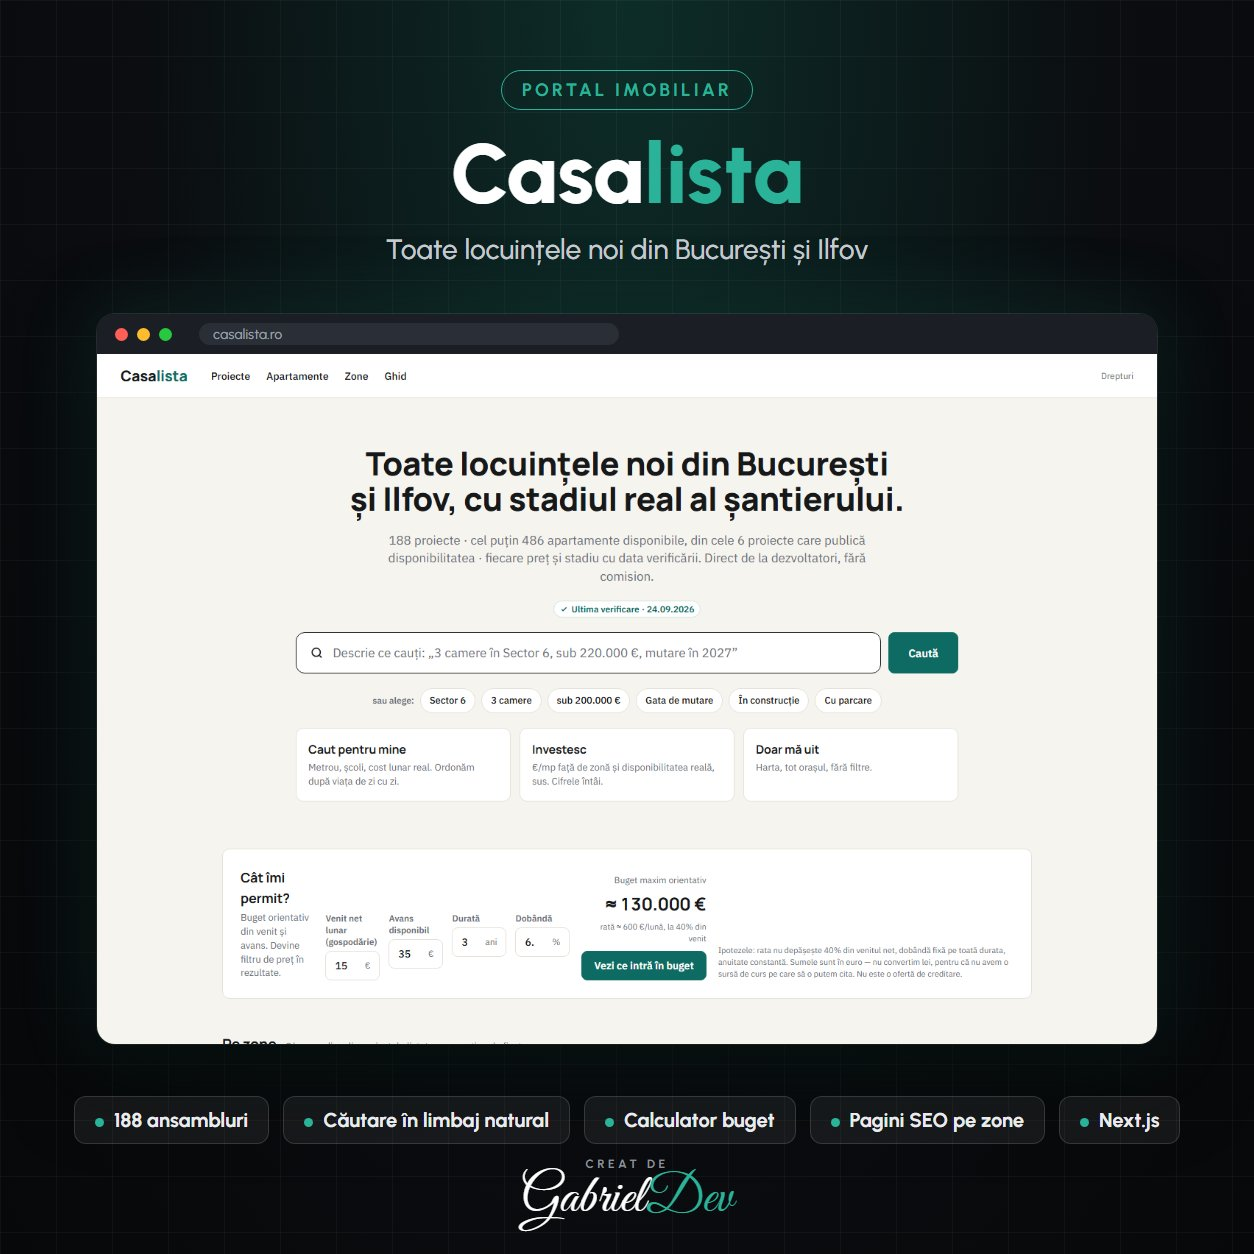
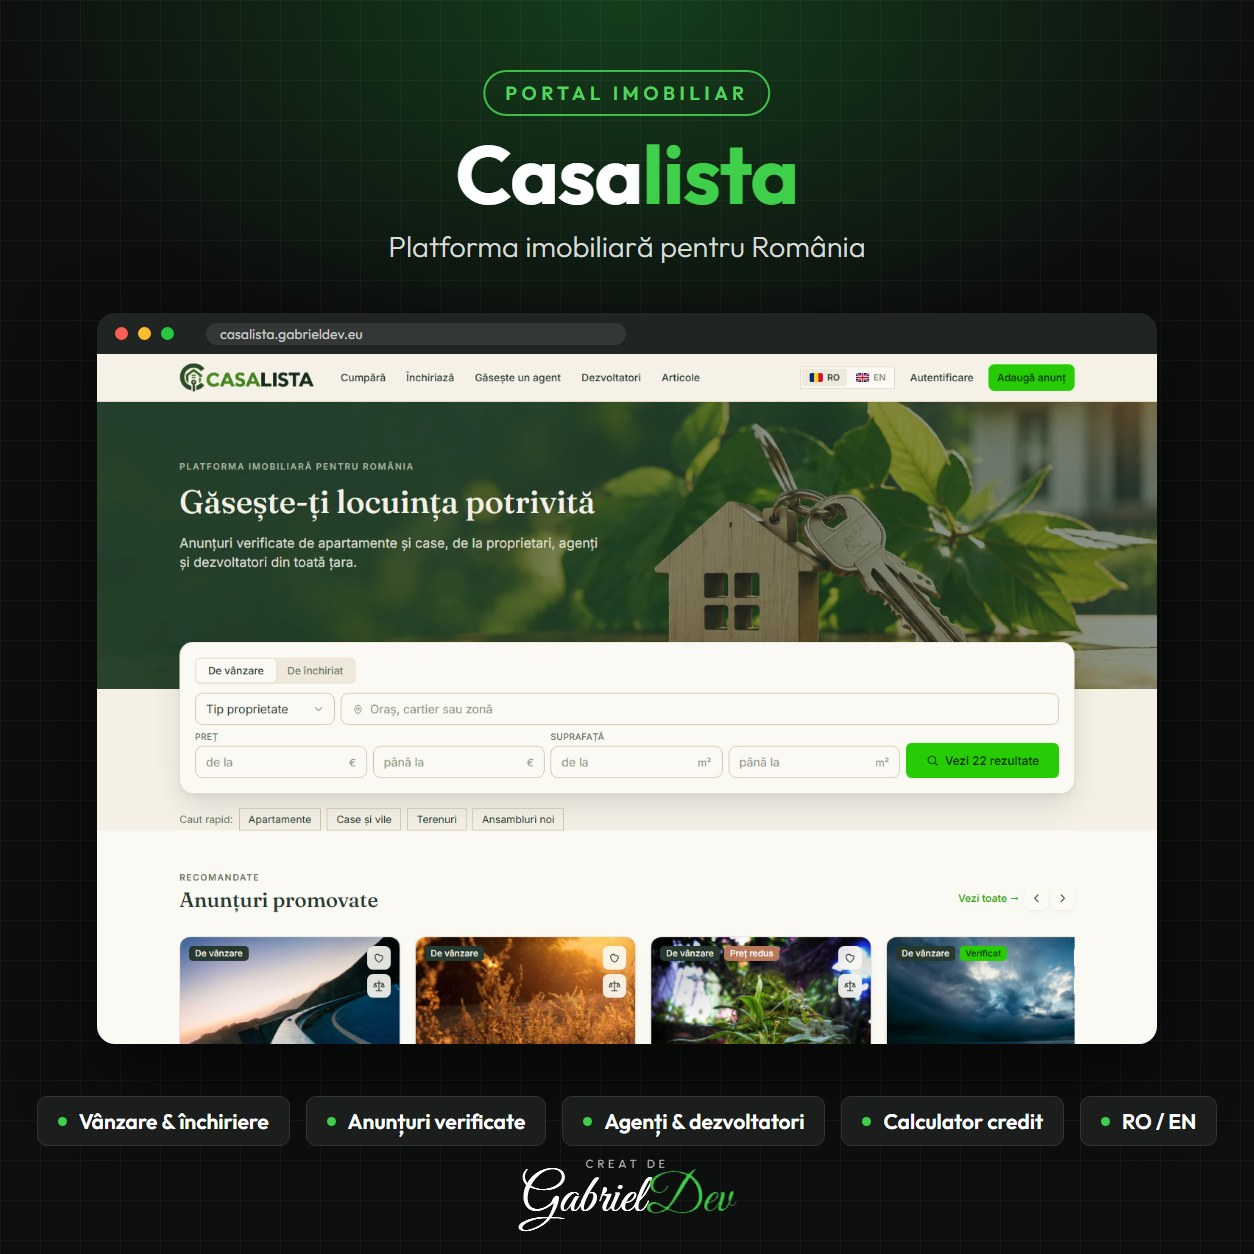
Link live casalista.gabrieldev.eu și copertă nouă din site-ul real

diff --git a/README.md b/README.md
@@ -17,7 +17,7 @@
 | **Client** | Client privat |
 | **An** | 2026 |
 | **Domeniu** | Backend Development · Frontend Development · Aplicații Web Personalizate |
-| **Status** | Live — [casalista.ro](https://casalista.ro) |
+| **Status** | Live — [casalista.gabrieldev.eu](https://casalista.gabrieldev.eu) |
 | **Studiu de caz** | [gabrieldev.eu](https://gabrieldev.eu/portofoliu/casalista-portal-locuinte-noi-bucuresti-ilfov) |
 
 ---
